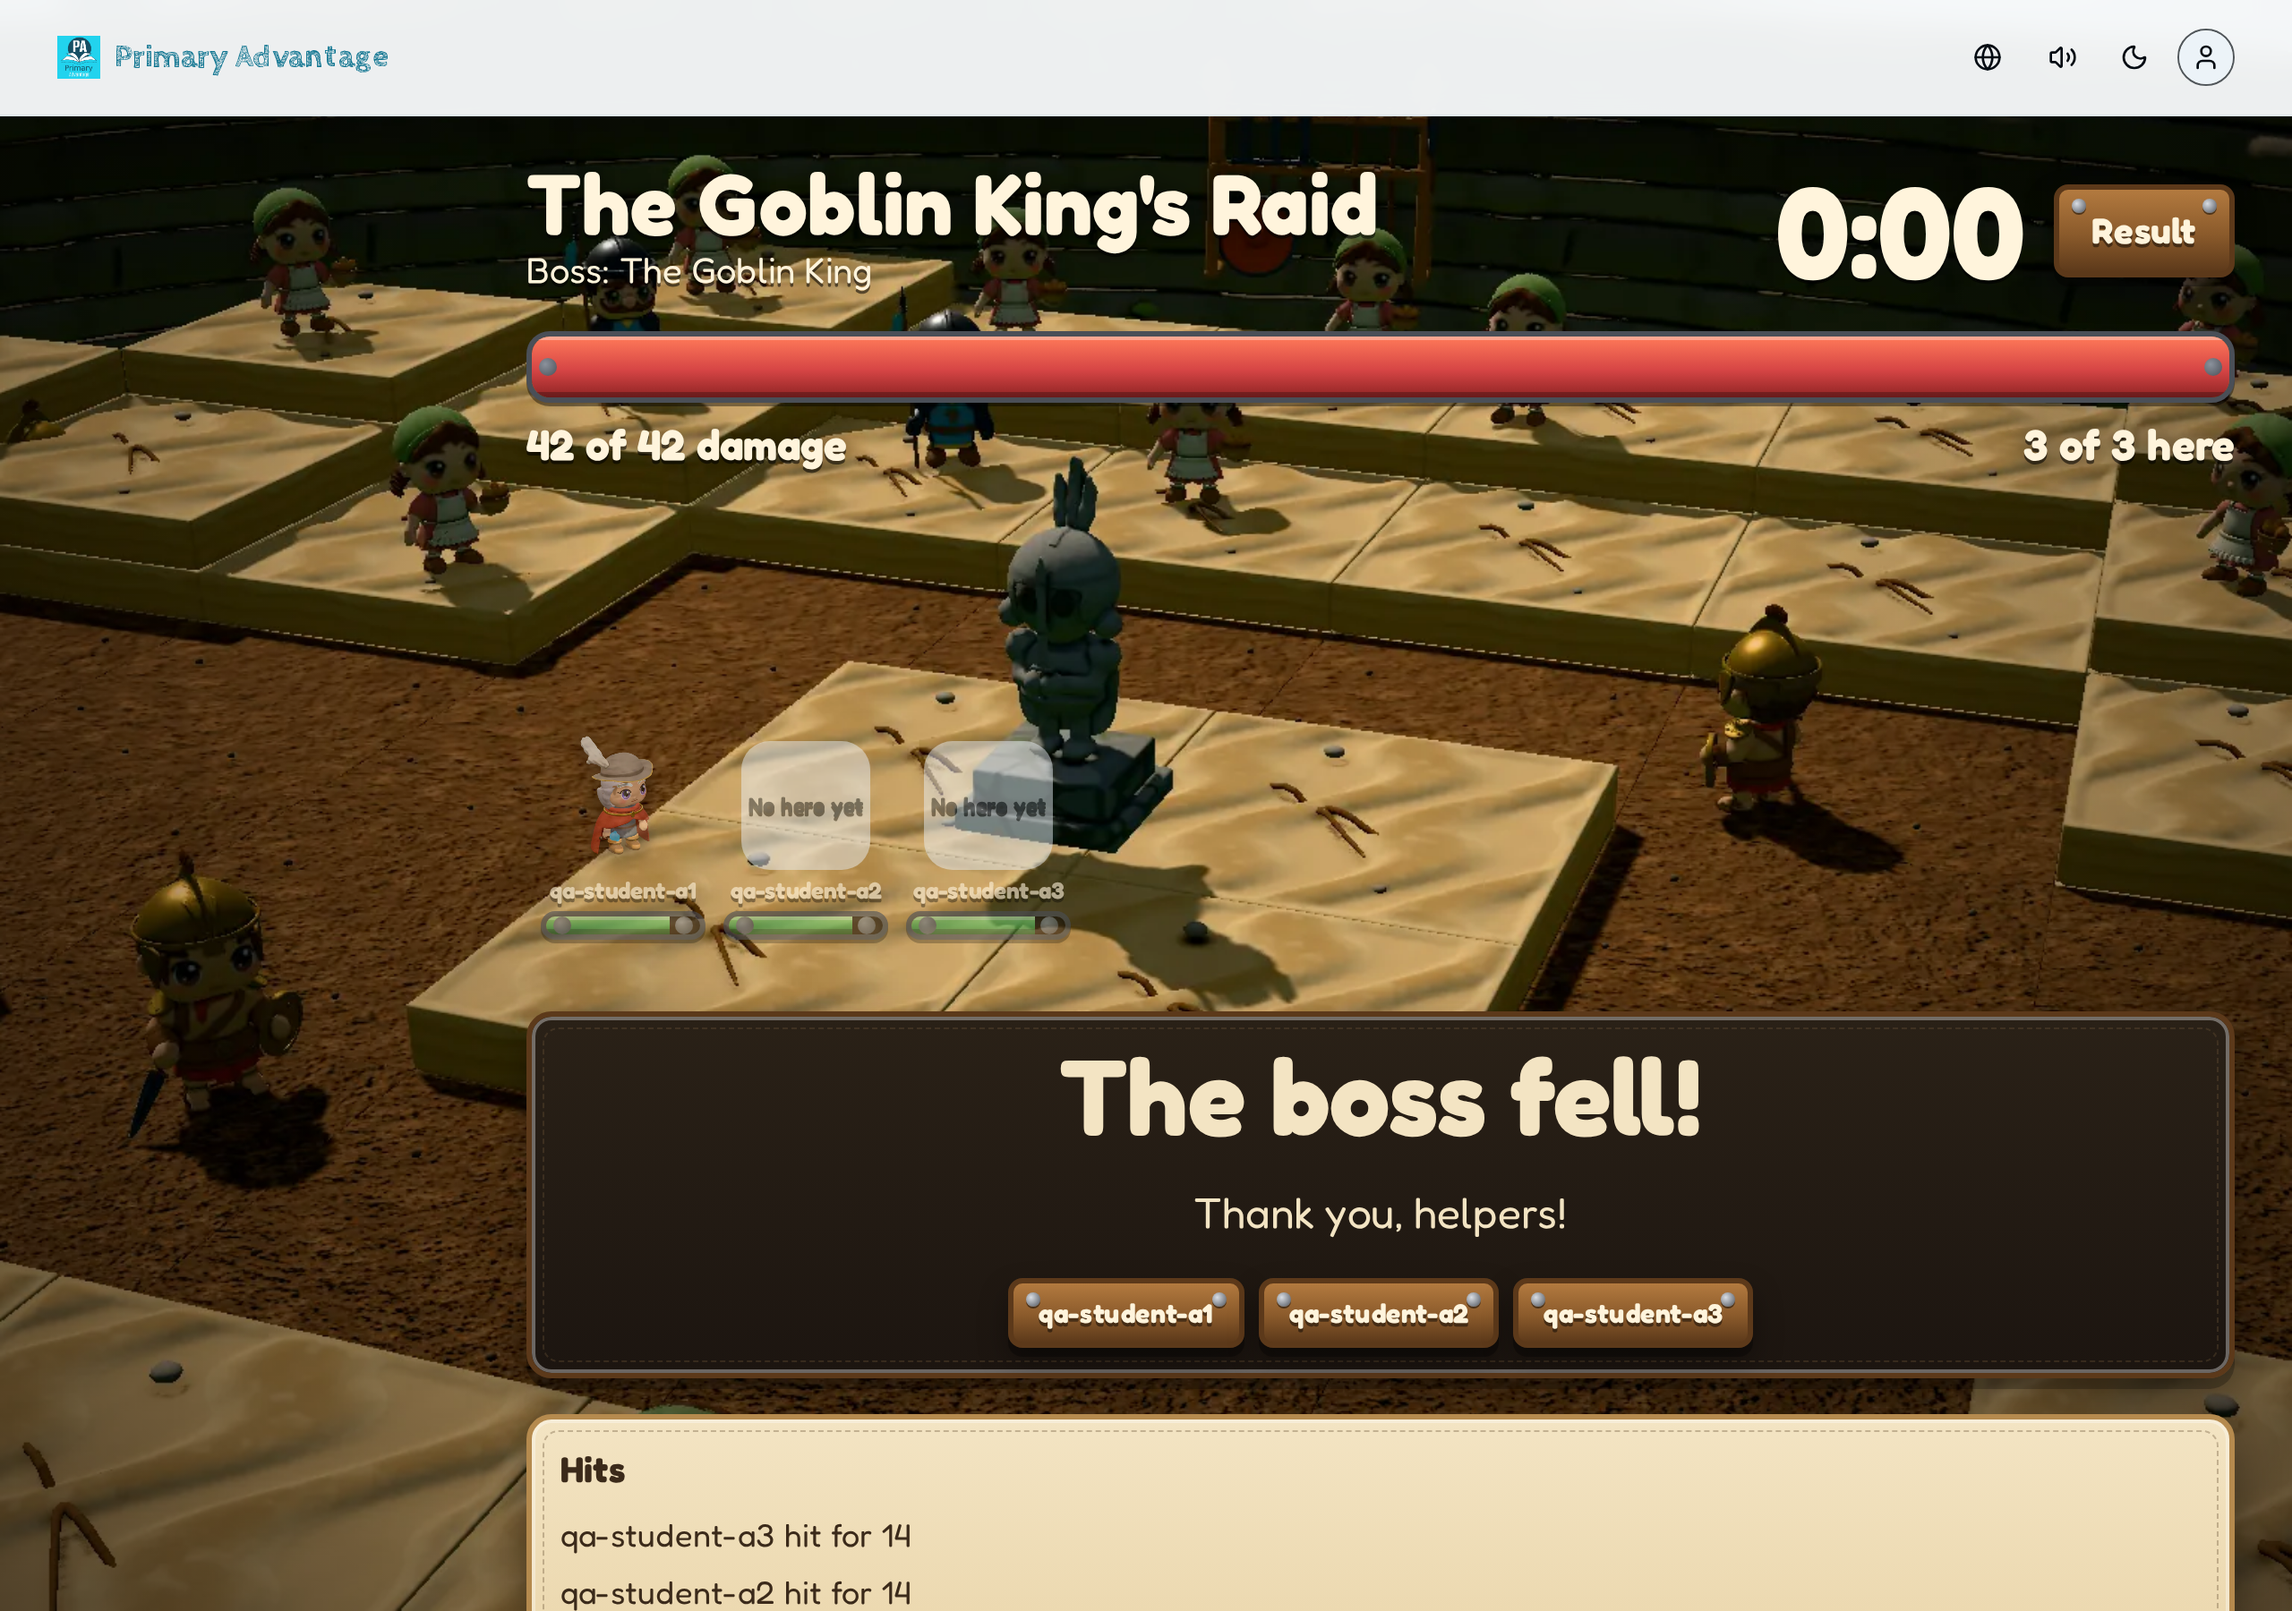
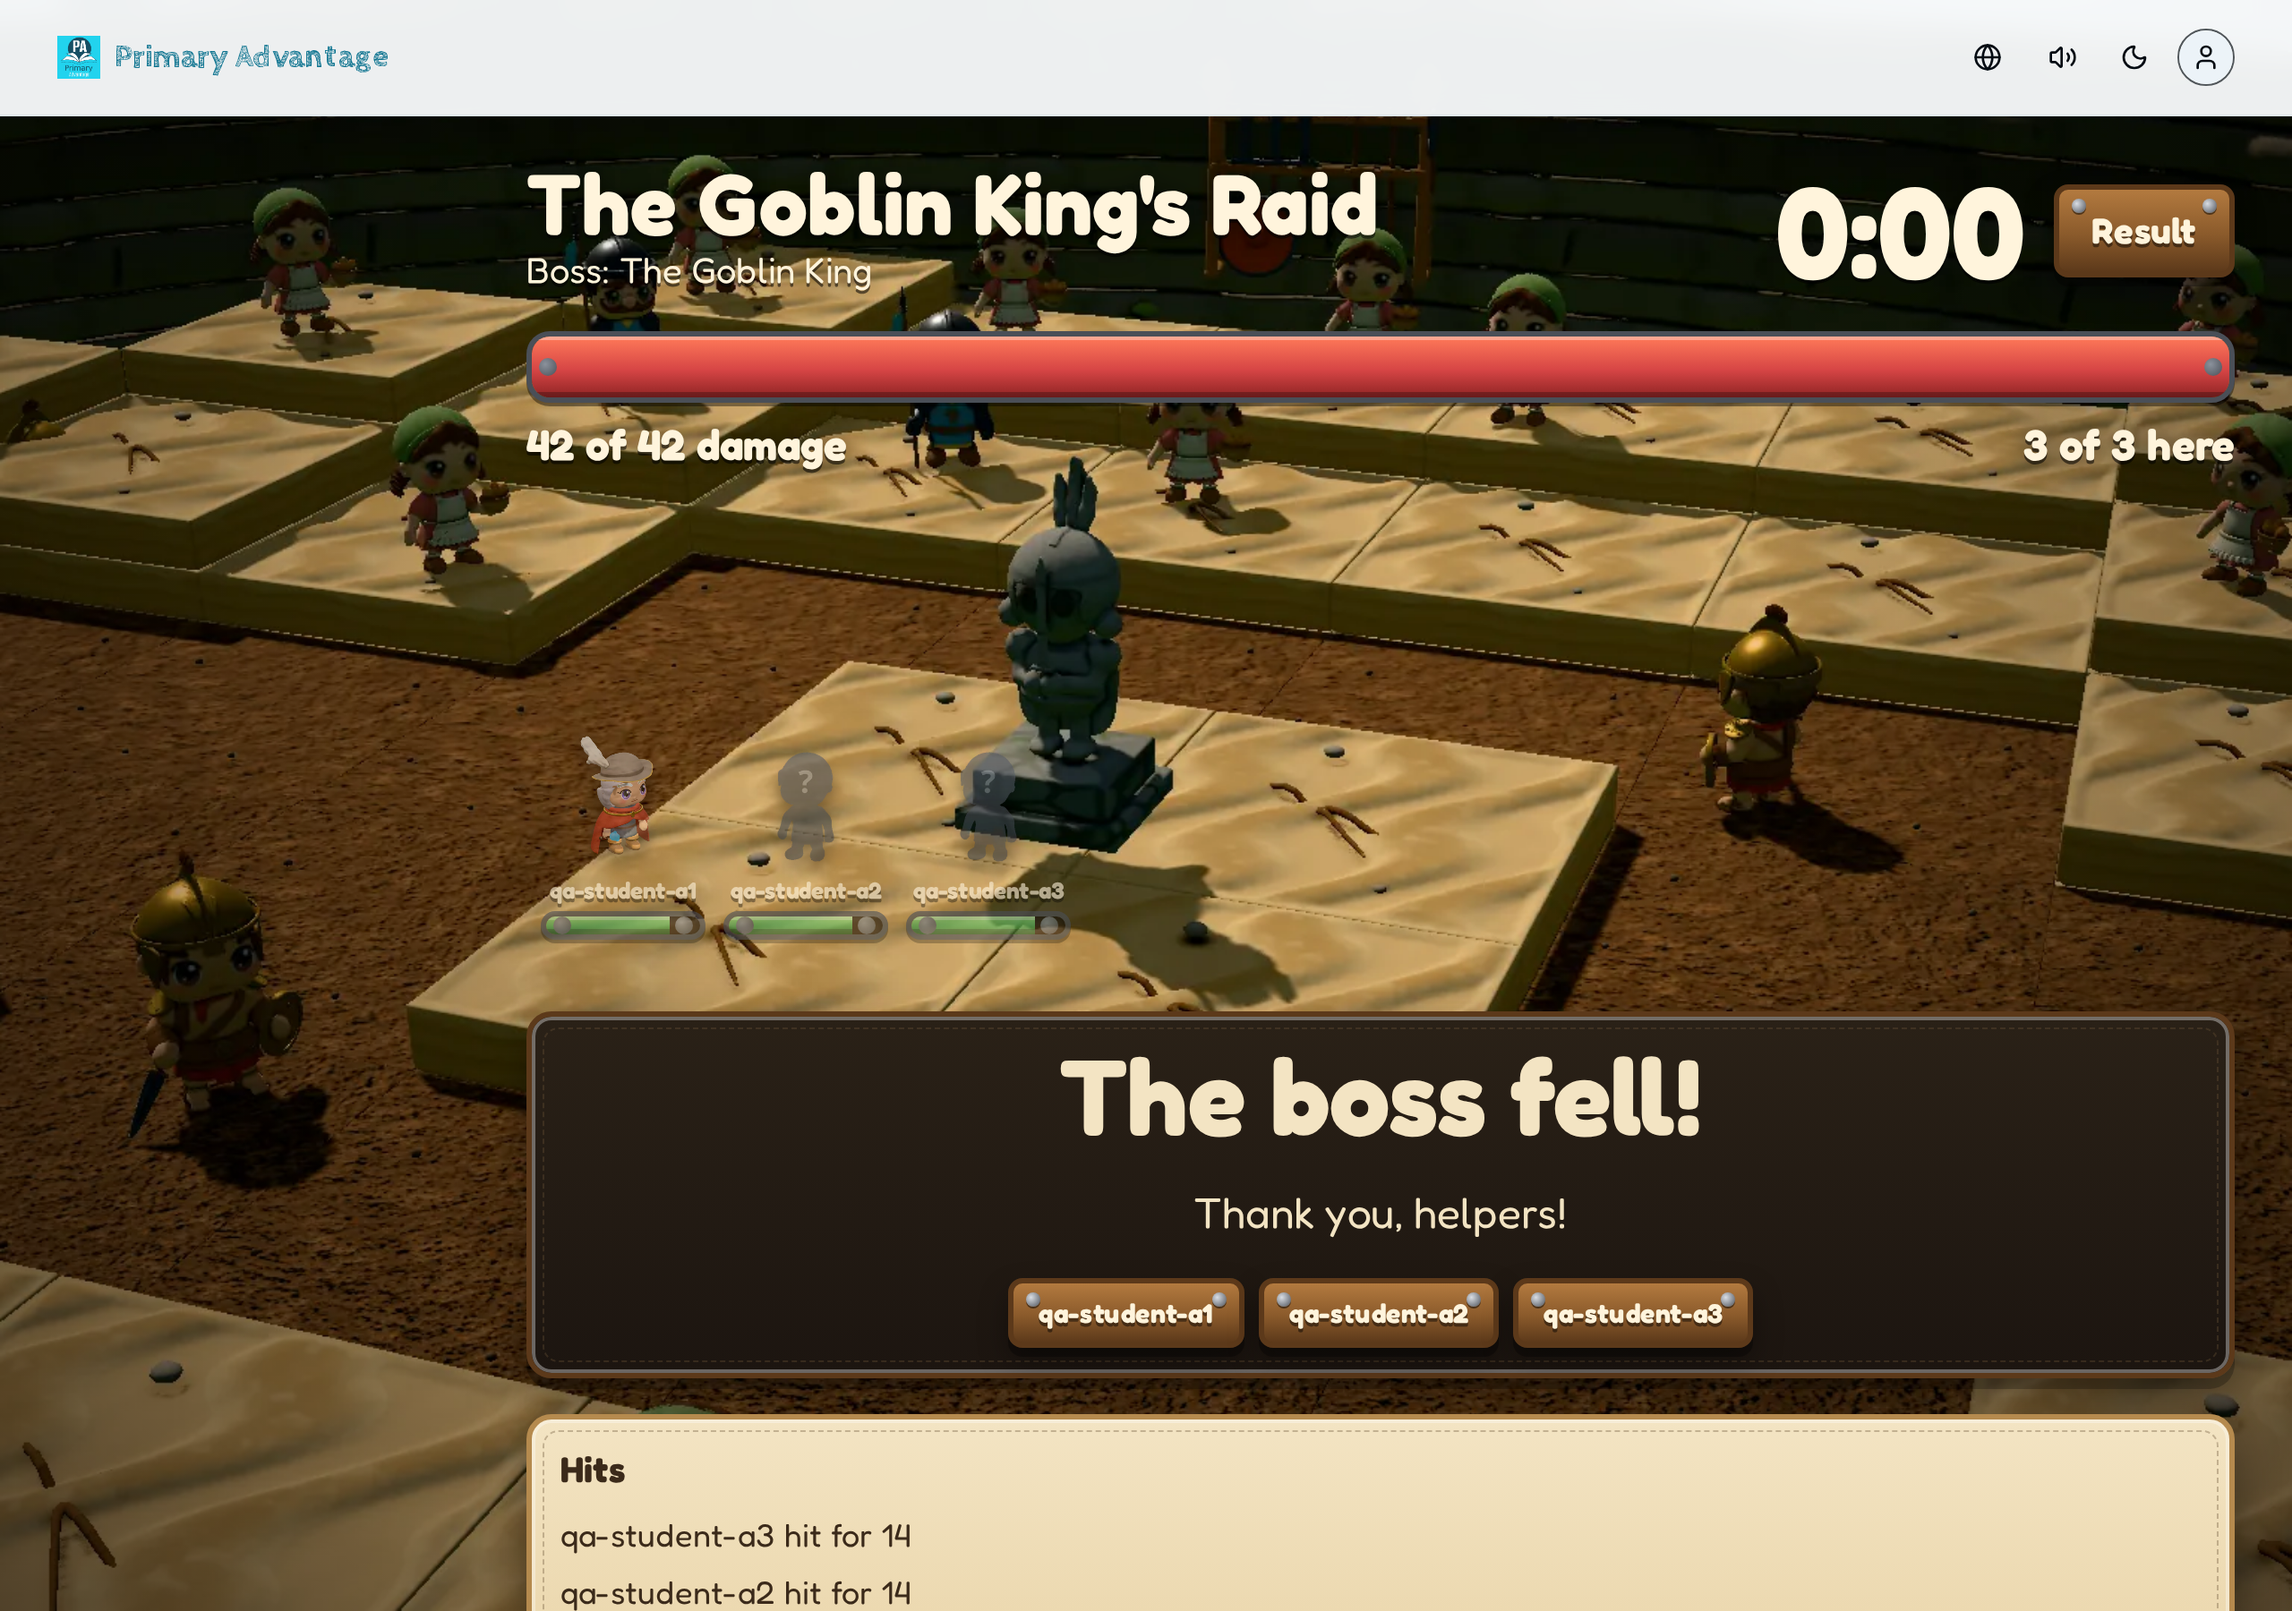
feat(primary): forge skin 1.1.0 with the no-hero silhouette (track_id: primary_rpg_skin_20261006)
Forge release 88686328: kit/heroes/no-hero.webp, transparent hero
portraits, skin.json 1.1.0. The live dashboard shows the silhouette
for a student without a hero. Recaptured on the production build.

Changed region(s): [[0.3125, 0.4356, 0.4688, 0.56]]

diff --git a/measure/tracks/primary_rpg_skin_20261006/phase5/index.html b/measure/tracks/primary_rpg_skin_20261006/phase5/index.html
@@ -51,7 +51,7 @@
 <h2>Open items</h2>
 <ul>
 <li><strong>Fixed: the header purse now refreshes after a purchase.</strong> The first frames showed 220 in the top bar while the shop purse read 170; the shop now refreshes the server-rendered header, and the recapture shows 95 after the Bracers purchase.</li>
-<li><strong>Fixed: a student with no hero gets a "No hero yet" tile on the projector</strong> (<code>qa-student-a2</code> and <code>qa-student-a3</code> in the recapture). A neutral hero silhouette from Forge replaces the text in a later skin release.</li>
+<li><strong>Fixed: a student with no hero gets the Forge silhouette on the projector</strong> (<code>qa-student-a2</code> and <code>qa-student-a3</code> in the recapture; skin 1.1.0 adds <code>kit/heroes/no-hero.webp</code>, the label "No hero yet" stays as the alt text).</li>
 <li><strong>The hit frame of shot 4 is the battle page state, not the slash.</strong> The slash and the rising damage number play inside the archway game at the moment of a correct answer; a headless frame of the battle page shows the boss with the student's pending hits. The video session records the slash from a real phone in the game.</li>
 <li><strong>The coin rain of shot 5 did not land in the headless frame</strong>; the fallen-boss panel, the thank-you list, and the hits list did. Check it on a real projector at the rehearsal.</li>
 </ul>

diff --git a/apps/primary-advantage/components/quest/live-dashboard.tsx b/apps/primary-advantage/components/quest/live-dashboard.tsx
@@ -14,6 +14,7 @@ import { Meter, Panel, RpgButton, Sign } from "@/components/rpg/chrome";
 import { useRenderer } from "@/lib/rpg/use-renderer";
 import { cn } from "@/lib/utils";
 import { AvatarPortrait } from "@/components/avatar/portrait-canvas";
+import { NO_HERO_ART } from "@/lib/rpg/places";
 import { BossSprite, useBossHit } from "./boss-sprite";
 import { countdownText } from "./countdown";
 import { questText } from "./quest-copy";
@@ -161,13 +162,12 @@ export function LiveDashboard({ initial }: { initial: QuestDashboardState }) {
                   alt={s.name}
                 />
               ) : (
-                <div
-                  className="bg-muted/80 text-muted-foreground flex size-18 items-center justify-center rounded-xl px-1 text-center text-xs leading-tight"
-                  role="img"
-                  aria-label={t("noHero")}
-                >
-                  {t("noHero")}
-                </div>
+                <img
+                  src={NO_HERO_ART}
+                  alt={t("noHero")}
+                  title={t("noHero")}
+                  className="size-18 rounded-xl"
+                />
               )}
               <span className="w-full truncate text-center">{s.name}</span>
               <Meter

diff --git a/apps/primary-advantage/lib/rpg/places.ts b/apps/primary-advantage/lib/rpg/places.ts
@@ -79,6 +79,9 @@ export const itemArt = (itemId: string): string => `/rpg/items/${itemId}.webp`;
  */
 export const heroArt = (classId: string): string => `/rpg/kit/heroes/${classId}.webp`;
 
+/** The Forge silhouette for a student who has not picked a hero yet (skin 1.1.0). */
+export const NO_HERO_ART = "/rpg/kit/heroes/no-hero.webp";
+
 /** The NPC sprite strips (8 frames at 128 px) and fronts. */
 export const NPC_ART = {
   blacksmithIdle: "/rpg/kit/npc/blacksmith-idle-strip.png",

diff --git a/measure/tracks/primary_rpg_skin_20261006/plan.md b/measure/tracks/primary_rpg_skin_20261006/plan.md
@@ -49,4 +49,4 @@ Spec: `spec.md`. Review page: `review.html`. Owner approved the plan on 2026-10-
 - [x] Shot 4: the boss takes a hit on the battle page (the slash and the damage number)
 - [x] Shot 5: the boss falls on the projector (the live dashboard in `result` with the coin rain); the committed damage comes from real completions: three QA students each start a challenge run and post one completion through `/api/v1/apk/challenges/runs` and `/api/v1/apk/complete` (the recipe `scratchpad/boss-fall.mjs`), or the staff rehearsal
 - [x] Report `phase5/index.html` with the five frames and a note per shot on the recording path for the video session
-- Fixed after the captures (2026-10-06): the header purse refreshes after a purchase; a student with no hero shows a "No hero yet" tile on the projector (a Forge silhouette later). Still from live play at the rehearsal: the slash frame of shot 4 and the coin rain of shot 5.
+- Fixed after the captures (2026-10-06): the header purse refreshes after a purchase; a student with no hero shows the Forge silhouette on the projector (skin 1.1.0, `kit/heroes/no-hero.webp`). Still from live play at the rehearsal: the slash frame of shot 4 and the coin rain of shot 5.
